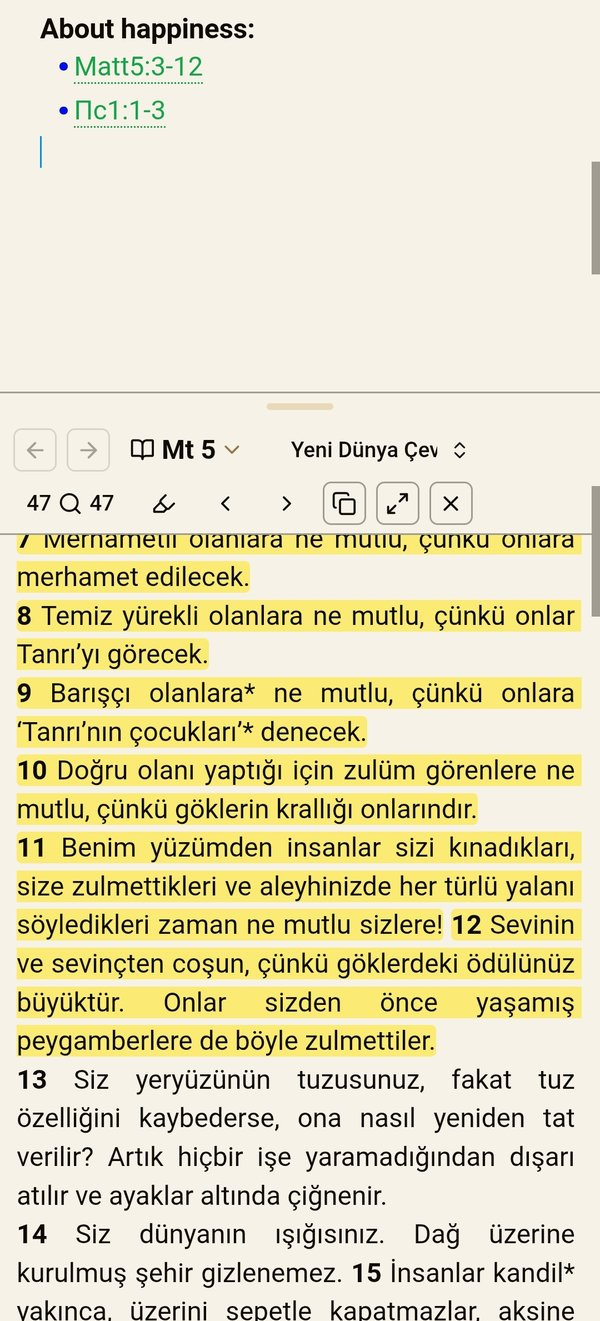
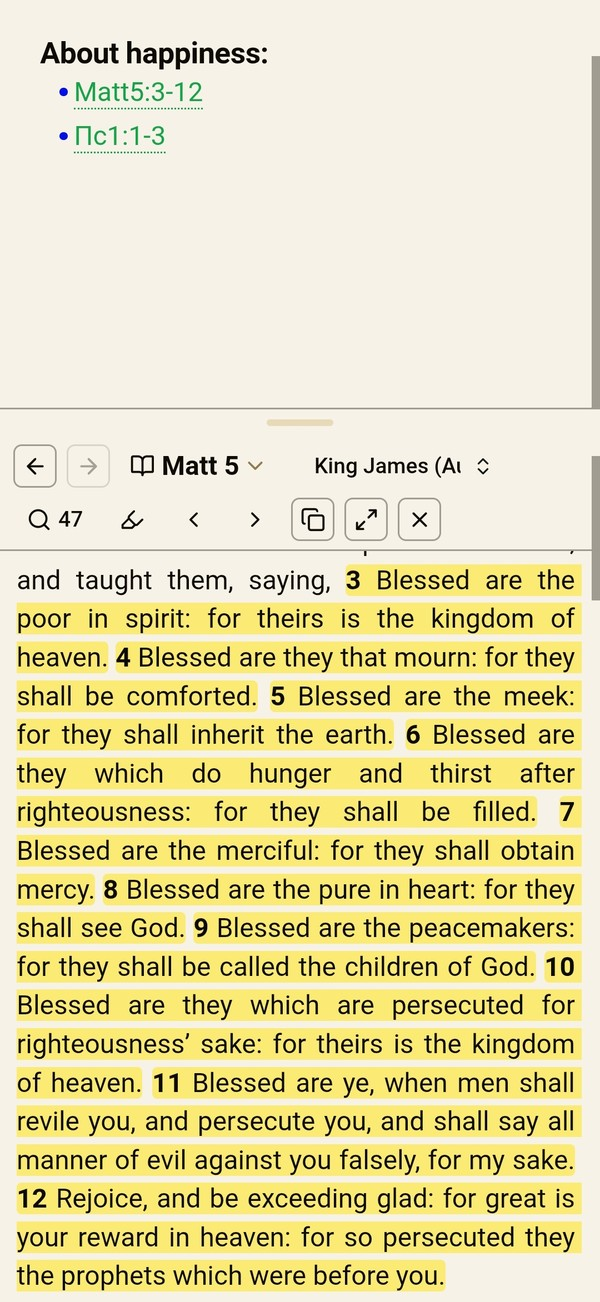
README: new phone screenshot, shared by both READMEs
Claude-Session: https://claude.ai/code/session_01PeyDT3pzp1zBzNxpcYE5if

diff --git a/README.ru.md b/README.ru.md
@@ -31,7 +31,7 @@
 <tr><td width="50%"><img src="https://raw.githubusercontent.com/yuriy-bak/obsidian-bible-reference-preview/main/docs/images/comparison.png" alt="Сравнение до четырёх переводов в боковой панели" width="100%"><br><sub>Сравнение до четырёх переводов в боковой панели</sub></td><td width="50%"><img src="https://raw.githubusercontent.com/yuriy-bak/obsidian-bible-reference-preview/main/docs/images/floating-window.png" alt="Плавающее окно" width="100%"><br><sub>Плавающее окно</sub></td></tr>
 <tr><td width="50%"><img src="https://raw.githubusercontent.com/yuriy-bak/obsidian-bible-reference-preview/main/docs/images/chapter-view.png" alt="Режим главы с подсвеченным стихом" width="100%"><br><sub>Режим главы с подсвеченным стихом</sub></td><td width="50%"><img src="https://raw.githubusercontent.com/yuriy-bak/obsidian-bible-reference-preview/main/docs/images/usages.png" alt="Где отрывок цитируется в заметках" width="100%"><br><sub>Где отрывок цитируется в заметках</sub></td></tr>
 <tr><td width="50%"><img src="https://raw.githubusercontent.com/yuriy-bak/obsidian-bible-reference-preview/main/docs/images/translation-code.png" alt="Код перевода после ссылки: (СП) показывает русский перевод" width="100%"><br><sub>Код перевода после ссылки: (СП) показывает русский перевод</sub></td><td></td></tr>
-<tr><td width="50%" align="center"><img src="https://raw.githubusercontent.com/yuriy-bak/obsidian-bible-reference-preview/main/docs/images/phone-reader-under-note-ru.jpg" alt="На телефоне: чтение Библии под заметкой" width="300"><br><sub>На телефоне: чтение Библии под заметкой</sub></td><td width="50%" align="center"><img src="https://raw.githubusercontent.com/yuriy-bak/obsidian-bible-reference-preview/main/docs/images/phone-translations.jpg" alt="На телефоне: страница «Переводы Библии»" width="300"><br><sub>На телефоне: страница «Переводы Библии»</sub></td></tr>
+<tr><td width="50%" align="center"><img src="https://raw.githubusercontent.com/yuriy-bak/obsidian-bible-reference-preview/main/docs/images/phone-reader-under-note.jpg" alt="На телефоне: чтение Библии под заметкой" width="300"><br><sub>На телефоне: чтение Библии под заметкой</sub></td><td width="50%" align="center"><img src="https://raw.githubusercontent.com/yuriy-bak/obsidian-bible-reference-preview/main/docs/images/phone-translations.jpg" alt="На телефоне: страница «Переводы Библии»" width="300"><br><sub>На телефоне: страница «Переводы Библии»</sub></td></tr>
 </table>
 
 ## Быстрый старт

diff --git a/README.md b/README.md
@@ -31,7 +31,7 @@ All changes, including beta versions in progress, are in the [changelog](CHANGEL
 <tr><td width="50%"><img src="https://raw.githubusercontent.com/yuriy-bak/obsidian-bible-reference-preview/main/docs/images/comparison.png" alt="Comparison of up to four translations in the side panel" width="100%"><br><sub>Comparison of up to four translations in the side panel</sub></td><td width="50%"><img src="https://raw.githubusercontent.com/yuriy-bak/obsidian-bible-reference-preview/main/docs/images/floating-window.png" alt="Floating window" width="100%"><br><sub>Floating window</sub></td></tr>
 <tr><td width="50%"><img src="https://raw.githubusercontent.com/yuriy-bak/obsidian-bible-reference-preview/main/docs/images/chapter-view.png" alt="Chapter view with the cited verse highlighted" width="100%"><br><sub>Chapter view with the cited verse highlighted</sub></td><td width="50%"><img src="https://raw.githubusercontent.com/yuriy-bak/obsidian-bible-reference-preview/main/docs/images/usages.png" alt="Where a passage is quoted in your notes" width="100%"><br><sub>Where a passage is quoted in your notes</sub></td></tr>
 <tr><td width="50%"><img src="https://raw.githubusercontent.com/yuriy-bak/obsidian-bible-reference-preview/main/docs/images/translation-code.png" alt="A translation code after a reference: (СП) shows a Russian translation" width="100%"><br><sub>A translation code after a reference: (СП) shows a Russian translation</sub></td><td></td></tr>
-<tr><td width="50%" align="center"><img src="https://raw.githubusercontent.com/yuriy-bak/obsidian-bible-reference-preview/main/docs/images/phone-reader-under-note.jpg" alt="On a phone: the Bible reader under the note, here in a Turkish translation" width="300"><br><sub>On a phone: the Bible reader under the note, here in a Turkish translation</sub></td><td width="50%" align="center"><img src="https://raw.githubusercontent.com/yuriy-bak/obsidian-bible-reference-preview/main/docs/images/phone-translations.jpg" alt="On a phone: the Bible translations page" width="300"><br><sub>On a phone: the Bible translations page</sub></td></tr>
+<tr><td width="50%" align="center"><img src="https://raw.githubusercontent.com/yuriy-bak/obsidian-bible-reference-preview/main/docs/images/phone-reader-under-note.jpg" alt="On a phone: the Bible reader under the note" width="300"><br><sub>On a phone: the Bible reader under the note</sub></td><td width="50%" align="center"><img src="https://raw.githubusercontent.com/yuriy-bak/obsidian-bible-reference-preview/main/docs/images/phone-translations.jpg" alt="On a phone: the Bible translations page" width="300"><br><sub>On a phone: the Bible translations page</sub></td></tr>
 </table>
 
 ## Quick start

diff --git a/CHANGELOG.md b/CHANGELOG.md
@@ -2,7 +2,7 @@
 
 ## Unreleased
 
-- README: new screenshots and GIF with the World English Bible, KJV and Russian Synodal translations.
+- README: new screenshots and GIF with the World English Bible, KJV and Russian Synodal translations; one phone screenshot for both READMEs.
 - A reference no longer continues on the next line: in "Judg 4:3,14;" followed by "5:14" on a new line, 5:14 used to be highlighted as a link that did not open. Now only the first line is a reference, the same in the editor, the preview, reading mode and the usage index.
 - Questions and ideas now have a home in [GitHub Discussions](https://github.com/yuriy-bak/obsidian-bible-reference-preview/discussions), linked from the README and the new issue page.
 - README: phone screenshots of the Bible reader under the note and the Bible translations page.
